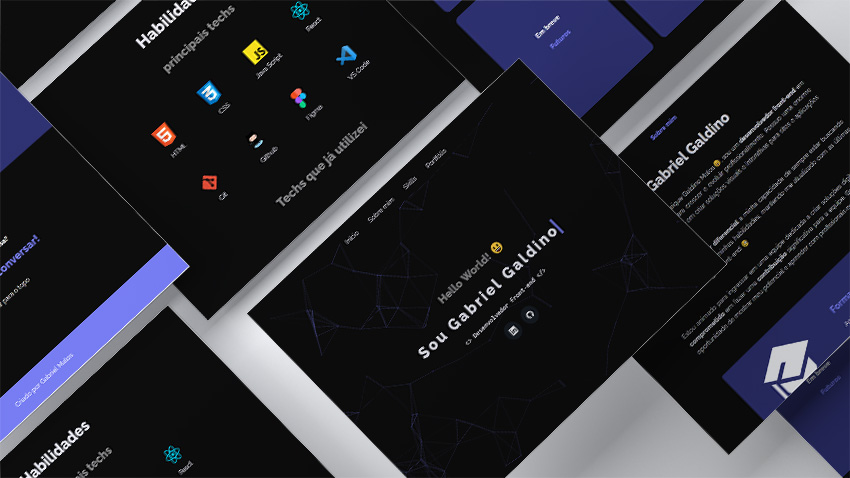
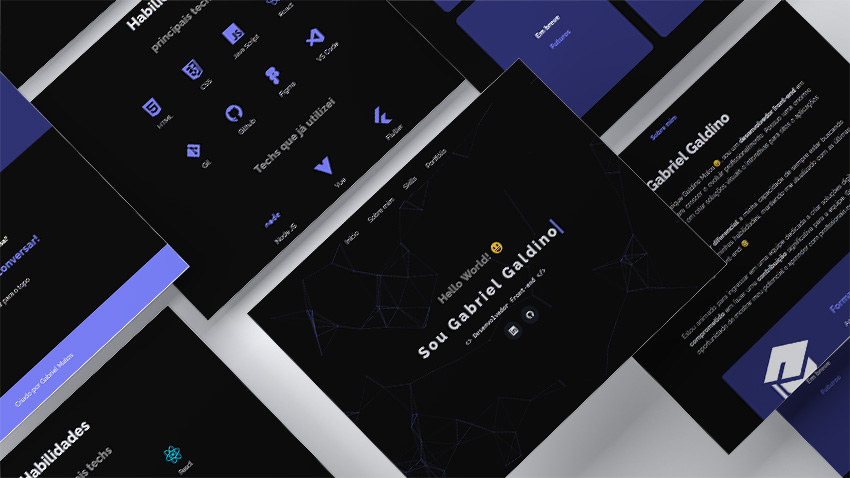
add novos icones das skills e novo formato de projeto

diff --git a/index.html b/index.html
@@ -11,7 +11,6 @@
         <script src="https://unpkg.com/scrollreveal@4/dist/scrollreveal.min.js"></script>
         <meta name="viewport" content="width=device-width, initial-scale=1.0">
         <title>Gabriel Galdino</title>
-
     </head>
     <body>
         <div id="particles-js"></div>
@@ -218,6 +217,10 @@
                     <div class="projetos-grid">
 
                         <div class="projetos-grid__item">
+                            <div>
+                                <img src="imgs/projetos-thumbs/website mockup.jpg"
+                                    alt="Imagem do projeto">
+                            </div>
 
                             <h2 class="projetos-grid__item__title">Portfólio
                                 Pessoal</h2>
@@ -225,27 +228,55 @@
                                 Meu portfólio onde tive a oportunidade de
                                 aplicar conceitos importantes para criação de
                                 layouts, como:
-                                Flexbox, Grid, Tags semânticas e Media Query.</p>
+                                Flexbox, Grid, Tags semânticas e Media Query. Além disso foi utilizado uma biblioteca de animação para que a interação seja agradável</p>
                             <div>
                                 <span class="projetos-grid__item__tags">HTML</span>
                                 <span class="projetos-grid__item__tags">CSS</span>
-                                <span class="projetos-grid__item__tags">Java Script</span>
+                                <span class="projetos-grid__item__tags">Java
+                                    Script</span>
                                 <span class="projetos-grid__item__tags">Figma</span>
                             </div>
 
-                            <div>
-                                <img src="imgs/projetos-thumbs/website mockup.jpg"
-                                    alt="Imagem do projeto">
-                            </div>
+
 
                             <a
                                 href="https://github.com/galdinogabriel/galdinogabriel.github.io"
                                 class="portfolio__link" target="_blank">Github</a>
                         </div>
 
-                        <div class="projetos-grid__item--breve">
-                            <h2 class="projetos-grid__item__title">Em breve</h2>
-                            <span class="projetos-grid__item__tags">Futuros</span>
+                        <div class="projetos-grid__item">
+                            <div>
+                                <img src="imgs/projetos-thumbs/thelast.jpg"
+                                    alt="Imagem do projeto">
+                            </div>
+
+                            <h2 class="projetos-grid__item__title">Carrossel The
+                                Last of Us</h2>
+                            <p class="projetos-grid__item__descricao">
+                                Este é um projeto de carrossel interativo feito sem bibliotecas ou frameworks. O carrossel
+                                apresenta várias imagens que podem ser
+                                visualizadas através de uma interface intuitiva
+                                e responsiva.
+                                Além disso, o projeto utiliza animações e
+                                efeitos visuais para criar uma experiência de
+                                usuário agradável e envolvente.</p>
+                            <div>
+                                <span class="projetos-grid__item__tags">HTML</span>
+                                <span class="projetos-grid__item__tags">CSS</span>
+                                <span class="projetos-grid__item__tags">Java
+                                    Script</span>
+                            </div>
+
+
+                            <div class="item__links">
+                                <a
+                                href="https://github.com/galdinogabriel/galdinogabriel.github.io"
+                                class="portfolio__link" target="_blank">Github</a>
+                                <a
+                                href="https://galdinogabriel.github.io/projeto-carrossel-serie/"
+                                class="portfolio__link" target="_blank">Vizualizar</a>
+                            </div>
+                            
                         </div>
                         <div class="projetos-grid__item--breve">
                             <h2 class="projetos-grid__item__title">Em breve</h2>
@@ -255,14 +286,7 @@
                             <h2 class="projetos-grid__item__title">Em breve</h2>
                             <span class="projetos-grid__item__tags">Futuros</span>
                         </div>
-                        <div class="projetos-grid__item--breve">
-                            <h2 class="projetos-grid__item__title">Em breve</h2>
-                            <span class="projetos-grid__item__tags">Futuros</span>
-                        </div>
-                        <div class="projetos-grid__item--breve">
-                            <h2 class="projetos-grid__item__title">Em breve</h2>
-                            <span class="projetos-grid__item__tags">Futuros</span>
-                        </div>
+                     
                     </div>
                 </section>
             </main>

diff --git a/css/style.css b/css/style.css
@@ -292,7 +292,7 @@ a {
 
 .projetos-grid {
     display: grid;
-    grid-template-columns: 1fr 1fr 1fr;
+    grid-template-columns: 1fr 1fr;
     grid-template-rows: 1fr 1fr;
     gap: 3%;
 }
@@ -300,13 +300,18 @@ a {
 .projetos-grid__item {
     display: flex;
     flex-direction: column;
-    justify-content: start;
+    justify-content: space-between;
     align-items: start;
     gap: 30px;
     padding: 10%;
     background: var(--cor-secundaria);
     border-radius: 16px;
     transition: 0.5s;
+}
+
+.item__links{
+    display: flex;
+    gap: 20px;
 }
 
 .projetos-grid__item--breve {
@@ -367,7 +372,7 @@ a {
     padding: 10px;
     background: var(--cor-destaque);
     font-family: var(--font-principal);
-    font-size: clamp(16px, 1.8vw, 23px);
+    font-size: clamp(13px, 1.8vw, 20px);
     font-weight: bold;
     color: var(--cor-tercearia);
     transition: 0.3s;

diff --git a/css/media.css b/css/media.css
@@ -162,7 +162,7 @@
 
     display: grid;
     grid-template-columns: 1fr;
-    grid-template-rows: repeat(6, 1fr);
+    grid-template-rows: repeat(4, 1fr);
 
   }
 
@@ -208,13 +208,6 @@
   .foto-perfil {
     width: 200px;
     height: 200px;
-  }
-
-  .projetos-grid {
-    display: grid;
-    grid-template-columns: 1fr 1fr;
-    grid-template-rows: 1fr 1fr 1fr;
-
   }
 
 }
